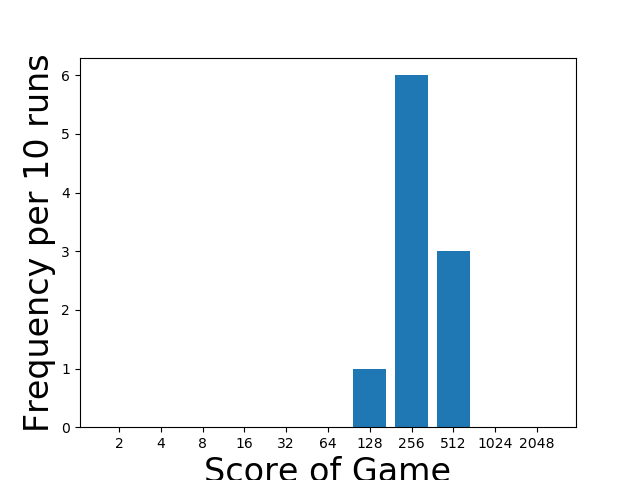
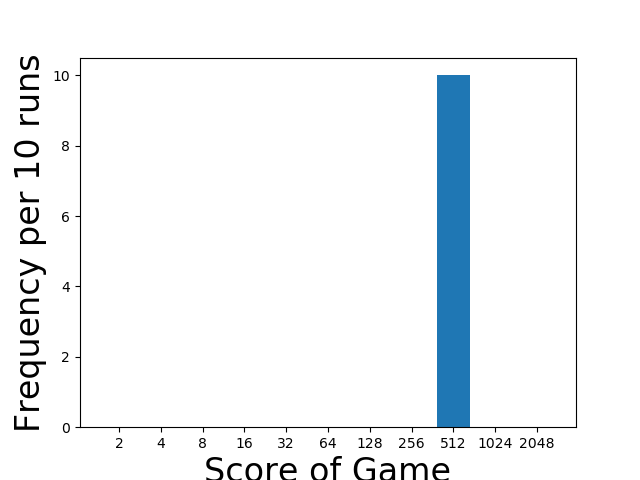
get_depth modofied and debugged.

diff --git a/Homework 3/Code/mcts.py b/Homework 3/Code/mcts.py
@@ -29,9 +29,13 @@ class MCTS:
         # Hint: You may want to use the self.UCB_SPM_SCALE_PARAM, self.UCB_SL_SCALE_PARAM, and self.UCB_SCALER_PARAM parameters.
         # Hint: You may want to use the self.mode parameter to check which mode the agent is on.
         if self.mode=='ucb':
-            return move_number,self.SCALER_PARAM-(move_number+self.SD_SCALE_PARAM)
+            search_depth=self.SD_SCALE_PARAM+ move_number//self.SCALER_PARAM
+            total_move=self.TM_SCALE_PARAM+move_number//self.SCALER_PARAM
+            return search_depth,total_move
         else:
-            return move_number,self.UCB_SCALER_PARAM-(move_number+self.UCB_SD_SCALE_PARAM)
+            search_depth=self.UCB_SD_SCALE_PARAM+move_number//self.UCB_SCALER_PARAM
+            total_move=self.UCB_TM_SCALE_PARAM+move_number//self.UCB_SCALER_PARAM
+            return search_depth,total_move
 
     def ai_move(self, board, move_number):
         search_depth, total_moves = self.get_search_params(move_number)
@@ -54,12 +58,16 @@ class MCTS:
         # Hint: You may want to use the evaluation.evaluate_state function to score a board.
         # Hint: You may want to use the move_made returned from the gf.random_move function to check if a move was made.
         # Hint: You may want to use the gf.add_new_tile function to add a new tile to the board.
-        if gf.terminal_state:
+       # if 
+        if gf.terminal_state or search_depth==0:
             return evaluation.evaluate_state(board)
+        
         newBoard,flag,score1 = gf.random_move(np.copy(board))
-        gf.add_new_tile(newBoard)
-        score2=evaluation.evaluate_state(newBoard)
-        return score1+score2+MCTS.simulate_move(newBoard,search_depth+1)
+        score2=0.0
+        if not flag:
+            gf.add_new_tile(newBoard)
+            score2=evaluation.evaluate_state(newBoard)
+        return score1+score2+MCTS.simulate_move(newBoard,search_depth-1)
         
 
     def ucb(self, moves: list, total_visits: int) -> np.ndarray:
@@ -126,8 +134,8 @@ class MCTS:
                 index+=1
                 continue
             moves_scores[index]+=score
-            for i in range(total_moves):
-                moves_scores[index]+=self.simulate_move(newBoard,search_depth)
+            for i in range(self.TM_SCALE_PARAM):
+                moves_scores[index]+=self.simulate_move(newBoard,search_depth-1)
             index+=1
         return gf.get_moves()[np.array(moves_scores).argmax()]
 
@@ -154,7 +162,7 @@ class MCTS:
                [gf.get_moves()[1],0.0,0.0],
                [gf.get_moves()[2],0.0,0.0],
                [gf.get_moves()[3],0.0,0.0] ]
-        for i in range(total_moves):
+        for i in range(self.TM_SCALE_PARAM):
             scores=self.ucb(moves,total_moves)
             selected_move_index=np.array(scores).argmax()
             if moves[0][1]==np.inf:
@@ -174,7 +182,7 @@ class MCTS:
             if not flag:
                 moves[selected_move_index][1]=-1*np.inf
             else:
-                moves[selected_move_index][1]+=MCTS.simulate_move(newBoard,search_depth+1)
+                moves[selected_move_index][1]+=MCTS.simulate_move(newBoard,search_depth-1)
             
         for i in range(4):
             temp1,moveMade,temp2=gf.move(np.copy(board),i)

diff --git a/Homework 3/Code/expectimax.py b/Homework 3/Code/expectimax.py
@@ -7,7 +7,7 @@ import game_functions as gf
 class Expectimax:
     def __init__(self, board):
         self.DEPTH_BASE_PARAM = 1 # You may change this parameter to scale the depth to which the agent searches.
-        self.SCALER_PARAM = 4 # You may change this parameter to scale depth to which the agent searches.
+        self.SCALER_PARAM = 400 # You may change this parameter to scale depth to which the agent searches.
         self.board = board
 
     def get_depth(self, move_number):
@@ -20,7 +20,7 @@ class Expectimax:
         """
         # TODO: Complete get_depth function to return the depth to which the agent should search for the given move number.
         # Hint: You may need to use the DEPTH_BASE_PARAM constant.
-        return self.DEPTH_BASE_PARAM
+        return self.DEPTH_BASE_PARAM+move_number//self.SCALER_PARAM
 
     def ai_move(self, board, move_number):
         depth = self.get_depth(move_number)
@@ -49,14 +49,13 @@ class Expectimax:
         # Hint: You may need to use the gf.terminal_state function to check if the game is over.
         if gf.terminal_state(board):
             return evaluation.evaluate_state(board),None
-        if depth==self.SCALER_PARAM:
+        if depth==0:
             return evaluation.evaluate_state(board),None
-        depth+=1
         if turn:
-            bestMove,bestScore=self.maximizer_node(board,depth)
+            bestMove,bestScore=self.maximizer_node(board,depth-1)
             return bestScore,bestMove
         else:
-            coefficient=(16-np.count_nonzero(board))/4
+            coefficient=(16-np.count_nonzero(board)+0.0)/4.0
             return coefficient*self.chance_node(board,depth),None
         
 

diff --git a/Homework 3/Code/game_console.py b/Homework 3/Code/game_console.py
@@ -63,7 +63,7 @@ board = gf.initialize_game()
 
 # 2. plotting
 tik = time.time()
-ai_plot(agent_name='expectimax')
+ai_plot(agent_name='mcts')
 tok = time.time()
 print(tok - tik)
 print((tok - tik) / SAMPLE_COUNT)
